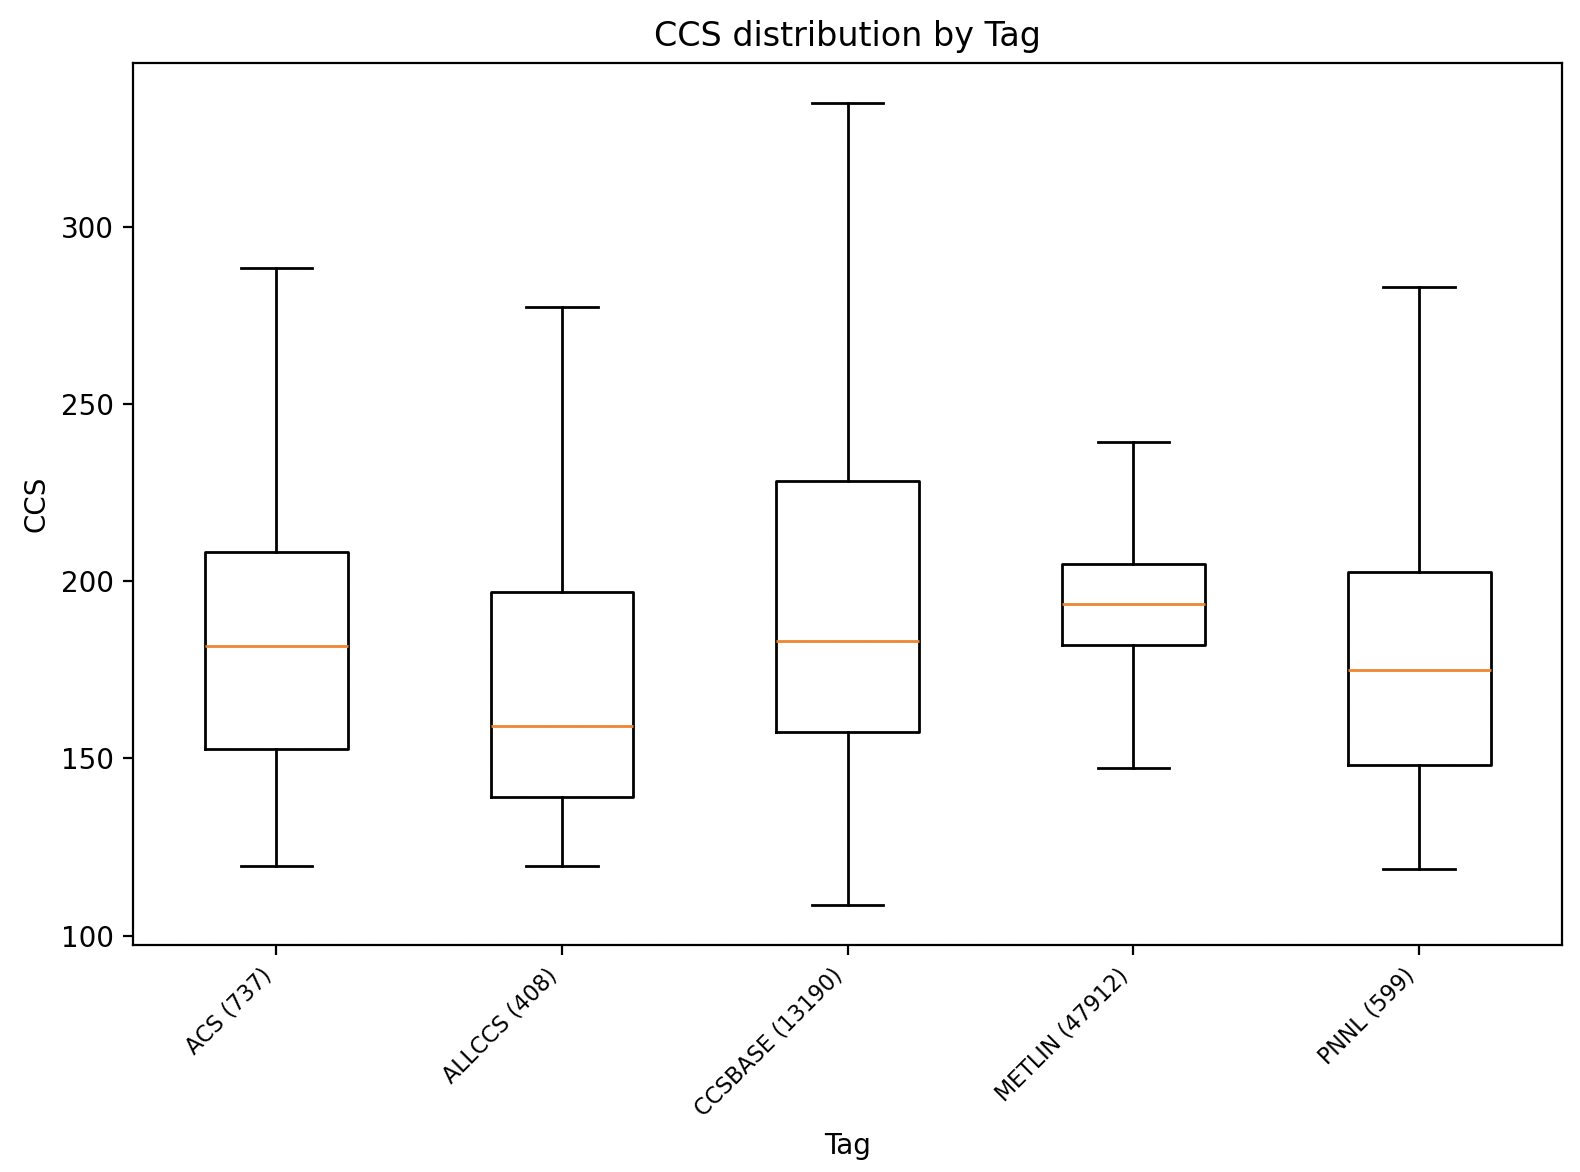
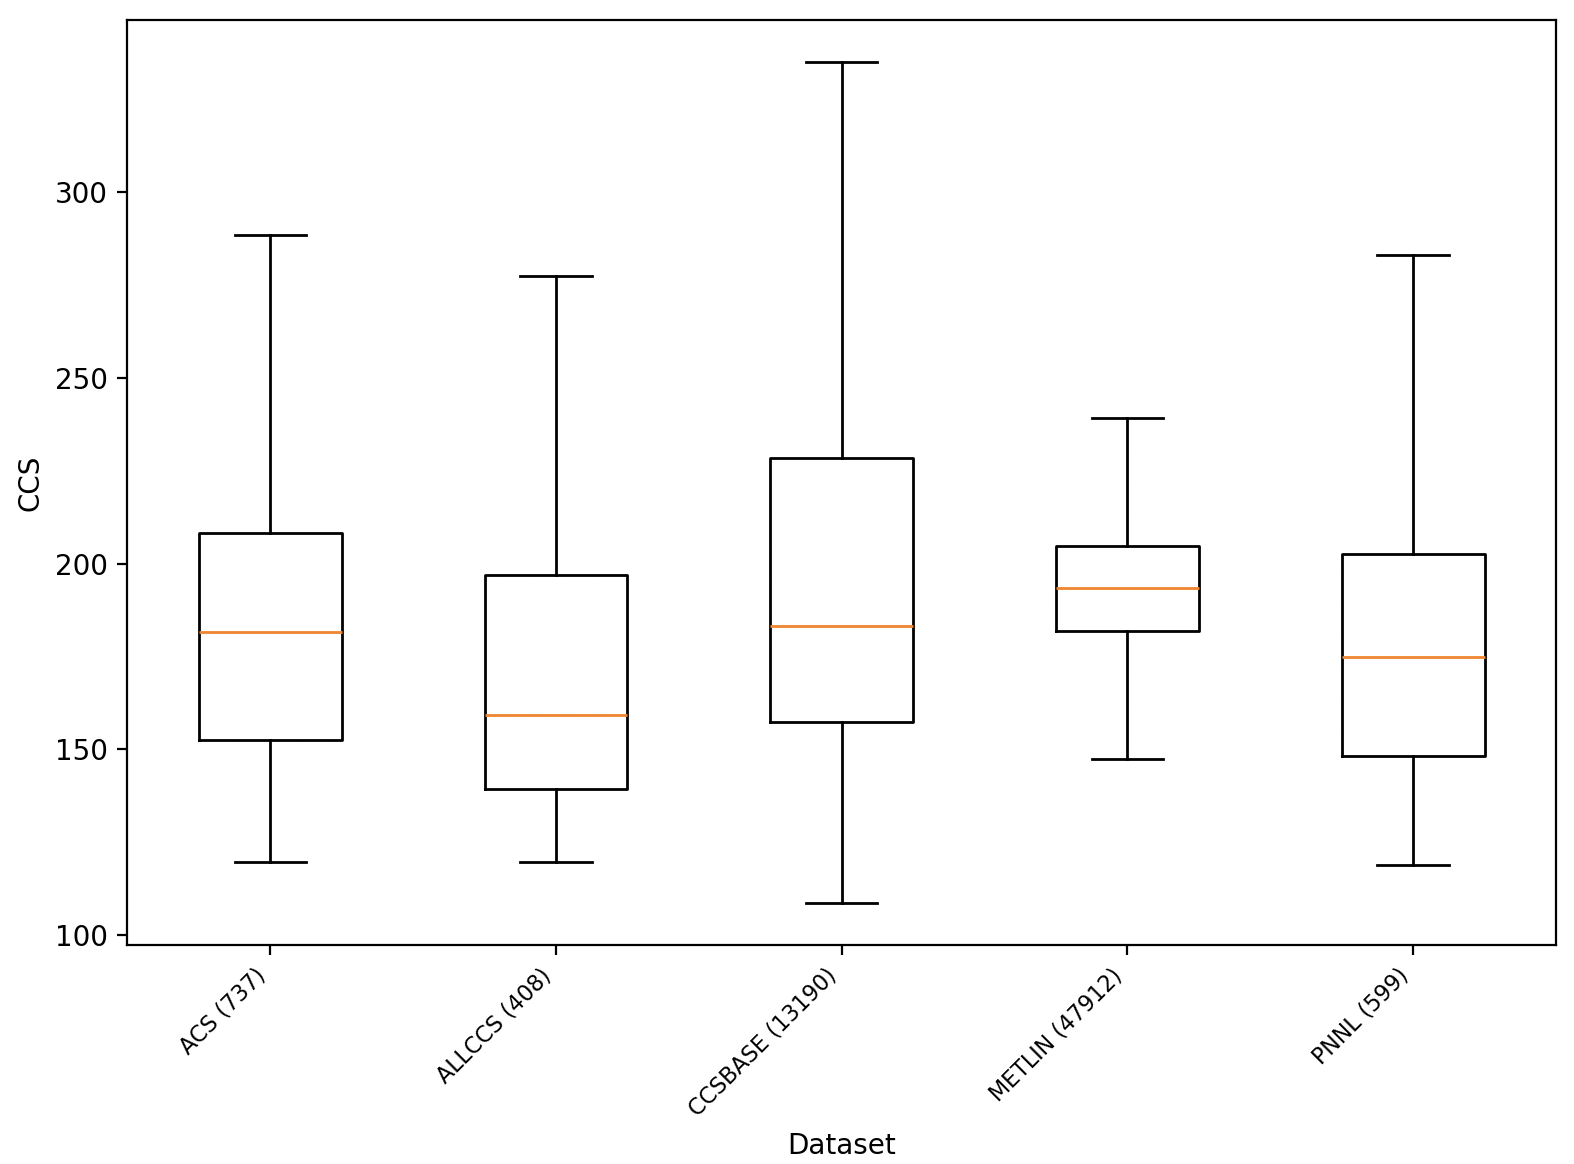
better analysis visuals:

diff --git a/utils.py b/utils.py
@@ -47,20 +47,16 @@ class Utils:
             y = group_df["ccs"].values
             stratify_labels = None
 
-            if len(y) >= 5:
-                try:
-                    y_arr = y.astype(float)
-                    stratify_labels = (y_arr // 10).astype(int)
-                    vc = pd.Series(stratify_labels).value_counts()
-                    if vc.min() < 2:
-                        stratify_labels = None
-                    else:
-                        n_samples = len(y_arr)
-                        n_test = int(np.ceil(test_size * n_samples))
-                        n_classes = vc.size
-                        if n_test < n_classes:
-                            stratify_labels = None
-                except Exception:
+            y_arr = y.astype(float)
+            stratify_labels = (y_arr // 10).astype(int)
+            vc = pd.Series(stratify_labels).value_counts()
+            if vc.min() < 2:
+                stratify_labels = None
+            else:
+                n_samples = len(y_arr)
+                n_test = int(np.ceil(test_size * n_samples))
+                n_classes = vc.size
+                if n_test < n_classes:
                     stratify_labels = None
 
             group_train, group_test = sk_train_test_split(
@@ -121,6 +117,7 @@ class Utils:
         DataStructs.ConvertToNumpyArray(count_fp, arr)
         feature_values.extend(arr.tolist())
 
+        print(len(feature_values))
         return np.array(feature_values)
     
     # NOT USED

diff --git a/analysis/predicted_subclasses.py b/analysis/predicted_subclasses.py
@@ -5,7 +5,6 @@ import matplotlib.pyplot as plt
 DB_PATH = "../CCSMLDatabase.db"
 TABLE = "master_clean"
 
-# pull predicted subclasses (exclude NONE)
 conn = sqlite3.connect(DB_PATH)
 df = pd.read_sql_query(
     f"""
@@ -18,21 +17,15 @@ df = pd.read_sql_query(
 )
 conn.close()
 
-# strip "(predicted)" for display
 df["subclass_clean"] = df["subclass"].str.replace(" (predicted)", "", regex=False)
 
-# count subclasses
-counts = df["subclass_clean"].value_counts()
+counts_all = df["subclass_clean"].value_counts()
+top = counts_all.head(50)
+other = counts_all.iloc[50:].sum()
+counts = pd.concat([top, pd.Series({"Other": other})]).sort_values(ascending=False)
 
-# keep top 100
-counts = counts.head(100)
+perc = (counts / counts.sum()) * 100
 
-# scale to percent of total datapoints
-total = counts.sum()
-perc = (counts / total) * 100
-perc = perc.sort_values(ascending=False)
-
-# vertical histogram (bar chart) with different colors
 plt.figure(figsize=(max(8, 0.4 * len(perc)), 6))
 bars = plt.bar(perc.index, perc.values)
 
@@ -40,8 +33,7 @@ for i, bar in enumerate(bars):
     bar.set_color(plt.cm.tab20(i % 20))
 
 plt.ylabel("Percent of total datapoints (%)")
-plt.xlabel("Subclass")
-plt.title("Predicted subclass distribution (Top 100, % of total)")
+plt.xlabel("Predicted Subclasses")
 
 plt.ylim(0, perc.max() * 1.1)
 plt.xticks(rotation=45, ha="right", fontsize=8)

diff --git a/analysis/ccs_dataset_splits.py b/analysis/ccs_dataset_splits.py
@@ -1,26 +1,31 @@
 import pandas as pd
 import matplotlib.pyplot as plt
-import numpy as np
 
-train = True
+train = False
 csvfile = "train_data.csv" if train else "test_data.csv"
-title = "Training CCS Distribution" if train else "Test CCS Distribution"
+title = "Training Subclasses" if train else "Test Subclasses"
 
-# load data
 df = pd.read_csv(f"../pretrained/{csvfile}")
 
-# CCS histogram bins: 100 to 700 in steps of 10
-bins = np.arange(100, 701, 10)
+counts_all = df["subclass"].value_counts()
+top = counts_all.head(50)
+other = counts_all.iloc[50:].sum()
 
-# weights so each entry contributes equally to 100%
-weights = np.ones(len(df)) / len(df) * 100
+counts = pd.concat([top, pd.Series({"Other": other})]).sort_values(ascending=False)
 
-plt.figure(figsize=(10, 6))
-plt.hist(df["ccs"], bins=bins, weights=weights)
+perc = (counts / counts.sum()) * 100
+
+plt.figure(figsize=(max(8, 0.4 * len(perc)), 6))
+bars = plt.bar(perc.index, perc.values)
+
+for i, bar in enumerate(bars):
+    bar.set_color(plt.cm.tab20(i % 20))
 
 plt.ylabel("Percent of total datapoints (%)")
-plt.xlabel("CCS (bins of 10, range 100–700)")
-plt.title(title)
+plt.xlabel(title)
+
+plt.ylim(0, perc.max() * 1.1)
+plt.xticks(rotation=45, ha="right", fontsize=8)
 
 plt.tight_layout()
 plt.show()

diff --git a/analysis/subclasses.py b/analysis/subclasses.py
@@ -5,7 +5,6 @@ import matplotlib.pyplot as plt
 DB_PATH = "../CCSMLDatabase.db"
 TABLE = "master_clean"
 
-# pull non-predicted (GT) subclasses
 conn = sqlite3.connect(DB_PATH)
 df = pd.read_sql_query(
     f"""
@@ -17,18 +16,13 @@ df = pd.read_sql_query(
 )
 conn.close()
 
-# count subclasses
-counts = df["subclass"].value_counts()
+counts_all = df["subclass"].value_counts()
+top = counts_all.head(50)
+other = counts_all.iloc[50:].sum()
+counts = pd.concat([top, pd.Series({"Other": other})]).sort_values(ascending=False)
 
-# keep top 100
-counts = counts.head(100)
+perc = (counts / counts.sum()) * 100
 
-# scale to percent of total datapoints
-total = counts.sum()
-perc = (counts / total) * 100
-perc = perc.sort_values(ascending=False)
-
-# vertical histogram (bar chart) with different colors
 plt.figure(figsize=(max(8, 0.4 * len(perc)), 6))
 bars = plt.bar(perc.index, perc.values)
 
@@ -36,8 +30,7 @@ for i, bar in enumerate(bars):
     bar.set_color(plt.cm.tab20(i % 20))
 
 plt.ylabel("Percent of total datapoints (%)")
-plt.xlabel("Ground Truth Subclasses")
-plt.title("Subclass distribution (Top 100, % of total)")
+plt.xlabel("Subclasses")
 
 plt.ylim(0, perc.max() * 1.1)
 plt.xticks(rotation=45, ha="right", fontsize=8)

diff --git a/analysis/subclass_dataset_splits.py b/analysis/subclass_dataset_splits.py
@@ -3,37 +3,29 @@ import matplotlib.pyplot as plt
 
 train = True
 csvfile = "train_data.csv" if train else "test_data.csv"
-title = "Training Subclass Distribution" if train else "Test Subclass Distribution"
+title = "Training Subclasses" if train else "Test Subclasses"
 
-# load data
 df = pd.read_csv(f"../pretrained/{csvfile}")
 
-# count subclasses
 counts = df["subclass"].value_counts()
 
-# keep top 100
-counts = counts.head(100)
+counts = counts.head(50)
 
-# scale to percent of total datapoints
 total = counts.sum()
 perc = (counts / total) * 100
 perc = perc.sort_values(ascending=False)
 
-# vertical histogram (bar chart) with different colors
 plt.figure(figsize=(max(8, 0.4 * len(perc)), 6))
 bars = plt.bar(perc.index, perc.values)
 
-# apply different colors automatically
 for i, bar in enumerate(bars):
     bar.set_color(plt.cm.tab20(i % 20))
 
 plt.ylabel("Percent of total datapoints (%)")
 plt.xlabel(title)
-plt.title("Chemical subclass distribution (Top 100, % of total)")
 
 plt.ylim(0, perc.max() * 1.1)
 
-# smaller, slanted labels
 plt.xticks(rotation=45, ha="right", fontsize=8)
 
 plt.tight_layout()

diff --git a/analysis/ccs_box_wisker.py b/analysis/ccs_box_wisker.py
@@ -8,7 +8,7 @@ TABLE = "master_clean"
 # load
 conn = sqlite3.connect(DB_PATH)
 df = pd.read_sql_query(
-    f"SELECT tag, ccs FROM {TABLE} WHERE ccs IS NOT NULL",
+    f"SELECT tag, ccs FROM {TABLE}",
     conn,
 )
 conn.close()
@@ -18,7 +18,20 @@ df["tag"] = df["tag"].str.split(",")
 df = df.explode("tag")
 df["tag"] = df["tag"].str.strip()
 
-# prepare data + counts
+# print statistics per dataset/tag
+print("CCS statistics by dataset:")
+for tag, g in df.groupby("tag"):
+    print(
+        f"{tag}: "
+        f"n={len(g)}, "
+        f"mean={g['ccs'].mean():.2f}, "
+        f"median={g['ccs'].median():.2f}, "
+        f"std={g['ccs'].std():.2f}"
+    )
+
+print()
+
+# prepare data + counts for plotting
 tags = sorted(df["tag"].unique().tolist())
 data = []
 labels = []
@@ -33,8 +46,7 @@ plt.figure(figsize=(max(8, 0.45 * len(tags)), 6))
 plt.boxplot(data, labels=labels, showfliers=False)
 
 plt.ylabel("CCS")
-plt.xlabel("Tag")
-plt.title("CCS distribution by Tag")
+plt.xlabel("Dataset")
 
 plt.xticks(rotation=45, ha="right", fontsize=8)
 plt.tight_layout()

diff --git a/analysis/adducts.py b/analysis/adducts.py
@@ -1,0 +1,36 @@
+import sqlite3
+import pandas as pd
+import matplotlib.pyplot as plt
+
+DB_PATH = "../CCSMLDatabase.db"
+TABLE = "master_clean"
+
+# load adducts
+conn = sqlite3.connect(DB_PATH)
+df = pd.read_sql_query(
+    f"SELECT adduct FROM {TABLE} WHERE adduct IS NOT NULL",
+    conn,
+)
+conn.close()
+
+# count adducts
+counts = df["adduct"].value_counts()
+
+# print counts
+print("Adduct counts:")
+print(counts)
+print("\nTotal datapoints:", counts.sum())
+
+# normalize to percent of total database
+perc = (counts / counts.sum()) * 100
+
+# bar chart
+plt.figure(figsize=(max(8, 0.4 * len(perc)), 6))
+plt.bar(perc.index, perc.values)
+
+plt.ylabel("Percent of total datapoints (%)")
+plt.xlabel("Adduct")
+
+plt.xticks(rotation=45, ha="right", fontsize=8)
+plt.tight_layout()
+plt.show()
